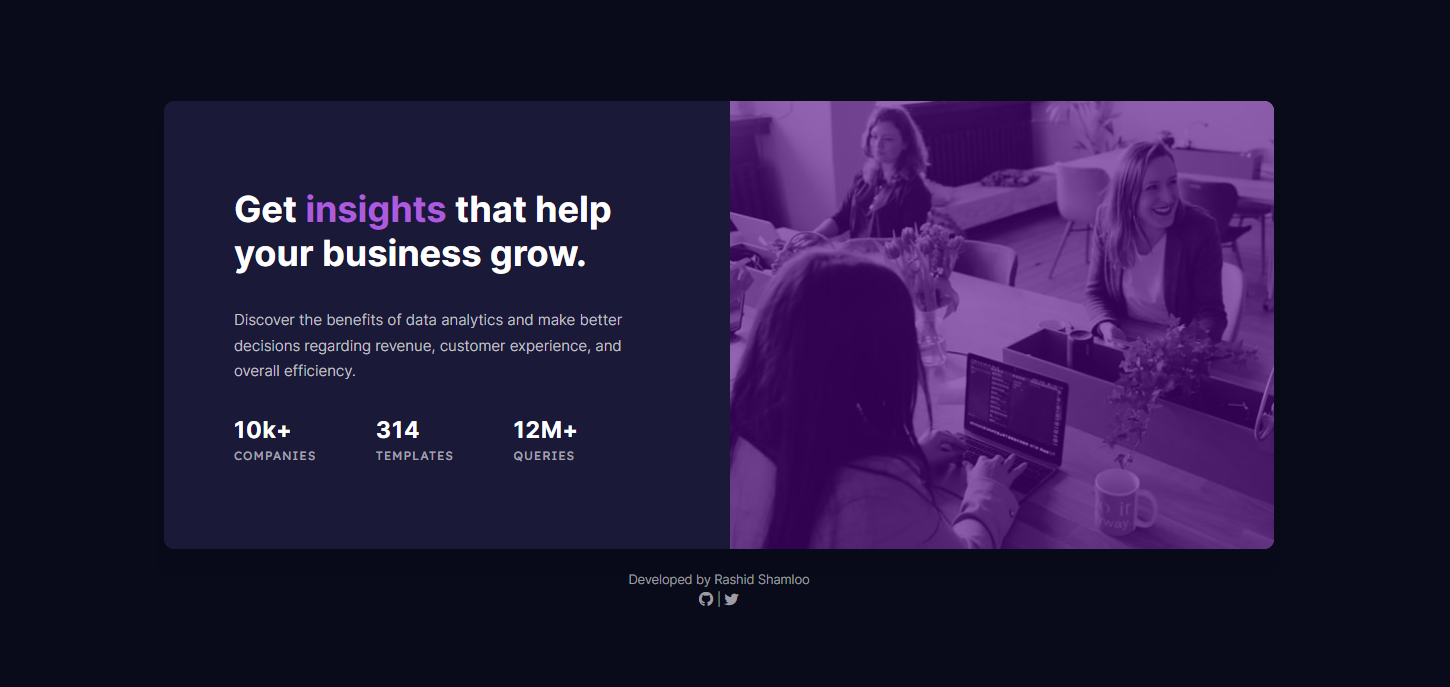
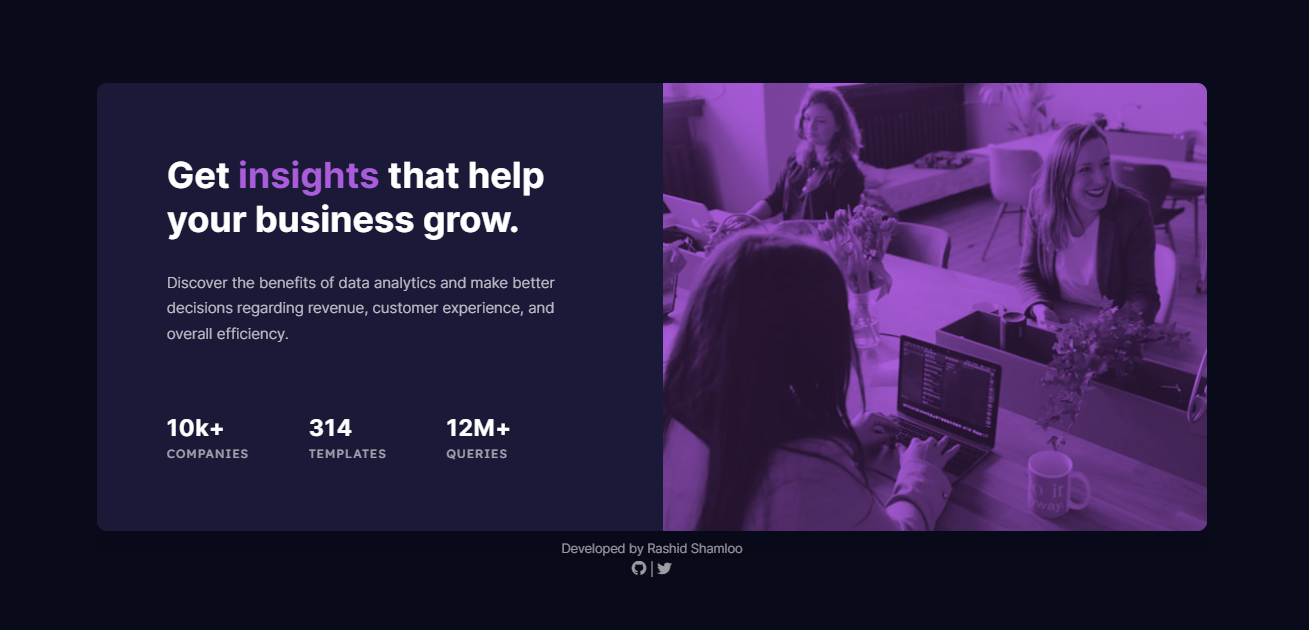
Changed color tint and units
Changed the way i applied color tint and changed units from px to rem per suggestion i recieved on frontendmentor.io

diff --git a/style.css b/style.css
@@ -7,7 +7,7 @@
 
 body {
   font-family: "Inter", sans-serif;
-  font-size: 15px;
+  font-size: 0.9375rem;
   min-height: 100vh;
   background-color: hsl(233deg, 47%, 7%);
   display: flex;
@@ -19,38 +19,36 @@ body {
 
 article {
   background-color: hsl(244deg, 38%, 16%);
-  border-radius: 10px;
+  border-radius: 0.6rem;
   display: flex;
   flex-direction: column;
   overflow: hidden;
-  max-width: 326px;
-  min-height: 780px;
-  margin: 10px;
-  box-shadow: 0 20px 5px 10px hsla(0deg, 0%, 0%, 0.05);
+  max-width: 20.375rem;
+  min-height: 48.75rem;
+  margin: 0.625rem 0.625rem 0 0.625rem;
+  box-shadow: 0 1.25rem 0.3125rem 0.625rem hsla(0deg, 0%, 0%, 0.05);
 }
-article picture {
+article .stats-image {
+  background-color: hsl(277deg, 64%, 61%);
+}
+article .stats-image picture {
   display: flex;
-  position: relative;
 }
-article picture img {
+article .stats-image img {
   -o-object-fit: cover;
      object-fit: cover;
   width: 100%;
   height: 100%;
-  max-height: 240px;
-}
-article picture::after {
-  content: "";
-  position: absolute;
-  inset: 0;
-  background-color: hsla(277deg, 100%, 25%, 0.6);
+  max-height: 15rem;
+  mix-blend-mode: multiply;
+  opacity: 0.8;
 }
 article .card-info {
   display: flex;
   flex-direction: column;
   justify-content: space-around;
   flex-grow: 1;
-  padding: 30px;
+  padding: 1.875rem;
 }
 article .card-info h1 {
   font-size: 1.75rem;
@@ -71,13 +69,12 @@ article .card-info .card-stats {
   letter-spacing: 1px;
 }
 article .card-info .card-stats > div {
-  margin-top: 30px;
+  margin: 1rem 0;
 }
 article .card-info .card-stats p {
-  margin-top: 5px;
+  margin-top: 0.32rem;
   text-transform: uppercase;
   font-size: 0.75rem;
-  font-weight: 300;
   color: hsla(0deg, 0%, 100%, 0.6);
   font-family: "Lexend Deca", sans-serif;
 }
@@ -86,13 +83,13 @@ article .card-info > * {
 }
 
 footer {
-  padding: 10px;
+  padding: 0.625rem;
   text-align: center;
   font-size: 0.8rem;
 }
 footer p {
   color: hsla(0deg, 0%, 100%, 0.6);
-  margin: 3px;
+  margin-bottom: 0.22rem;
 }
 footer i {
   font-size: 0.9rem;
@@ -109,16 +106,19 @@ footer a:hover {
   article {
     background-color: hsl(244deg, 38%, 16%);
     flex-direction: row-reverse;
-    max-width: 1110px;
-    min-width: 800px;
+    max-width: 69.4rem;
+    min-width: 50rem;
     min-height: initial;
-    height: 448px;
+    height: 28rem;
   }
-  article picture {
+  article .stats-image {
     max-height: unset;
     flex-basis: 49%;
   }
-  article picture img {
+  article .stats-image picture {
+    display: initial;
+  }
+  article .stats-image img {
     max-height: initial;
   }
   article .card-info {
@@ -135,6 +135,7 @@ footer a:hover {
     align-items: flex-end;
     -moz-column-gap: 14%;
          column-gap: 14%;
+    margin-top: 2.4rem;
   }
   article .card-info .card-stats > div {
     margin: 0;

diff --git a/style.scss b/style.scss
@@ -18,7 +18,7 @@ $dropShadow: hsla(0, 0%, 0%, 0.05);
 }
 body {
   font-family: "Inter", sans-serif;
-  font-size: 15px;
+  font-size: 0.9375rem;
   min-height: 100vh;
   background-color: $mainBG;
   display: flex;
@@ -29,37 +29,34 @@ body {
 }
 article {
   background-color: $cardBG;
-  border-radius: 10px;
+  border-radius: 0.6rem;
   display: flex;
   flex-direction: column;
   overflow: hidden;
-  max-width: 326px;
-  min-height: 780px;
-  margin: 10px;
-  box-shadow: 0 20px 5px 10px $dropShadow;
-  picture {
-    display: flex;
-    position: relative;
+  max-width: 20.375rem;
+  min-height: 48.75rem;
+  margin: 0.625rem 0.625rem 0 0.625rem;
+  box-shadow: 0 1.25rem 0.3125rem 0.625rem $dropShadow;
+  .stats-image {
+    background-color: $accent;
+    picture {
+      display: flex;
+    }
     img {
       object-fit: cover;
       width: 100%;
       height: 100%;
-      max-height: 240px;
+      max-height: 15rem;
+      mix-blend-mode: multiply;
+      opacity: 0.8;
     }
   }
-  picture::after {
-    content: "";
-    position: absolute;
-    inset: 0;
-    background-color: $imageOverlay;
-  }
-
   .card-info {
     display: flex;
     flex-direction: column;
     justify-content: space-around;
     flex-grow: 1;
-    padding: 30px;
+    padding: 1.875rem;
     h1 {
       font-size: 1.75rem;
       mark {
@@ -78,13 +75,12 @@ article {
       align-items: center;
       letter-spacing: 1px;
       > div {
-        margin-top: 30px;
+        margin: 1rem 0;
       }
       p {
-        margin-top: 5px;
+        margin-top: 0.32rem;
         text-transform: uppercase;
         font-size: 0.75rem;
-        font-weight: 300;
         color: $white60;
         font-family: "Lexend Deca", sans-serif;
       }
@@ -95,12 +91,12 @@ article {
   }
 }
 footer {
-  padding: 10px;
+  padding: 0.625rem;
   text-align: center;
   font-size: 0.8rem;
   p {
     color: $white60;
-    margin: 3px;
+    margin-bottom: 0.22rem;
   }
   i {
     font-size: 0.9rem;
@@ -117,13 +113,16 @@ footer {
   article {
     background-color: $cardBG;
     flex-direction: row-reverse;
-    max-width: 1110px;
-    min-width: 800px;
+    max-width: 69.4rem;
+    min-width: 50rem;
     min-height: initial;
-    height: 448px;
-    picture {
+    height: 28rem;
+    .stats-image {
       max-height: unset;
       flex-basis: 49%;
+      picture {
+        display: initial;
+      }
       img {
         max-height: initial;
       }
@@ -140,6 +139,7 @@ footer {
         justify-content: flex-start;
         align-items: flex-end;
         column-gap: 14%;
+        margin-top: 2.4rem;
         > div {
           margin: 0;
         }

diff --git a/index.html b/index.html
@@ -15,14 +15,16 @@
   <body>
     <main>
       <article>
-        <picture
-          ><source
-            srcset="images/image-header-desktop.jpg"
-            media="(min-width:481px)" />
-          <img
-            src="images/image-header-mobile.jpg"
-            alt="Happy Office Environment"
-        /></picture>
+        <div class="stats-image">
+          <picture
+            ><source
+              srcset="images/image-header-desktop.jpg"
+              media="(min-width:481px)" />
+            <img
+              src="images/image-header-mobile.jpg"
+              alt="Happy Office Environment"
+          /></picture>
+        </div>
         <div class="card-info">
           <h1>Get <mark>insights</mark> that help your business grow.</h1>
           <p class="card-discription">
